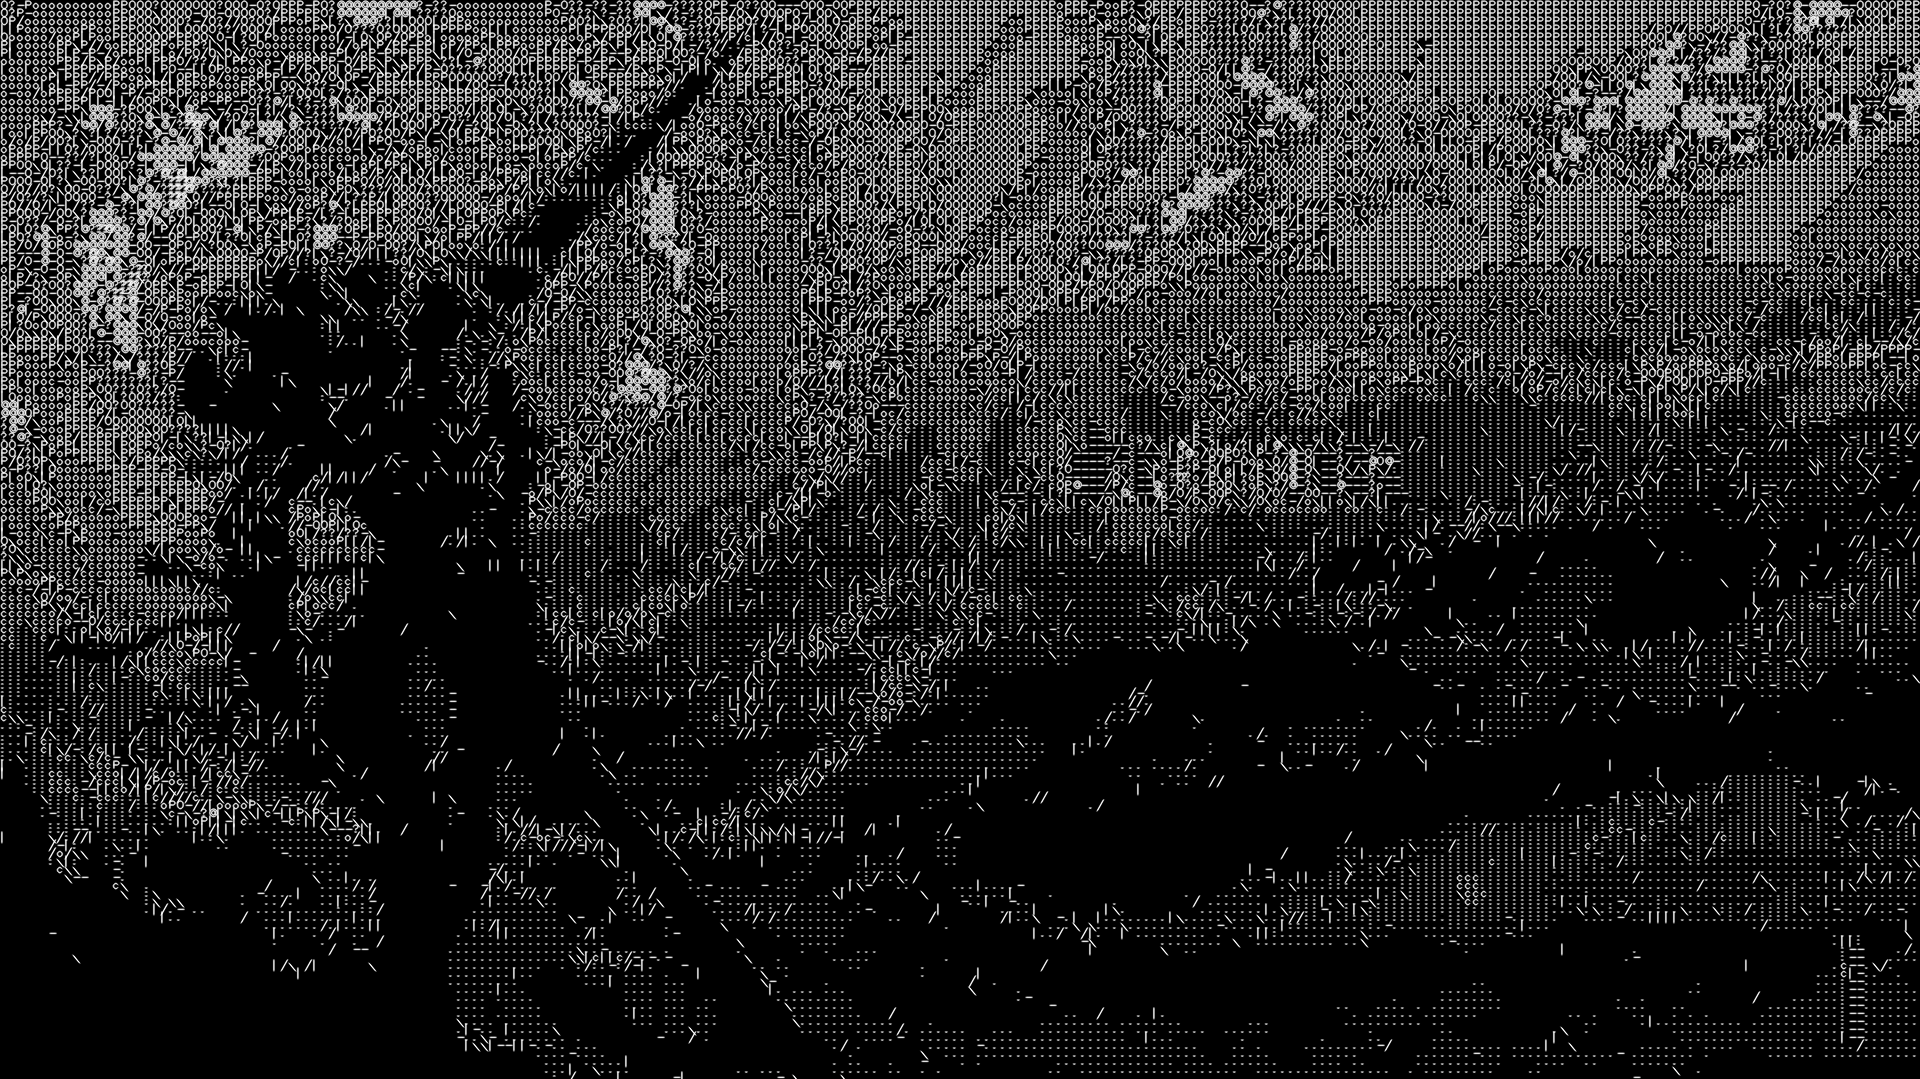
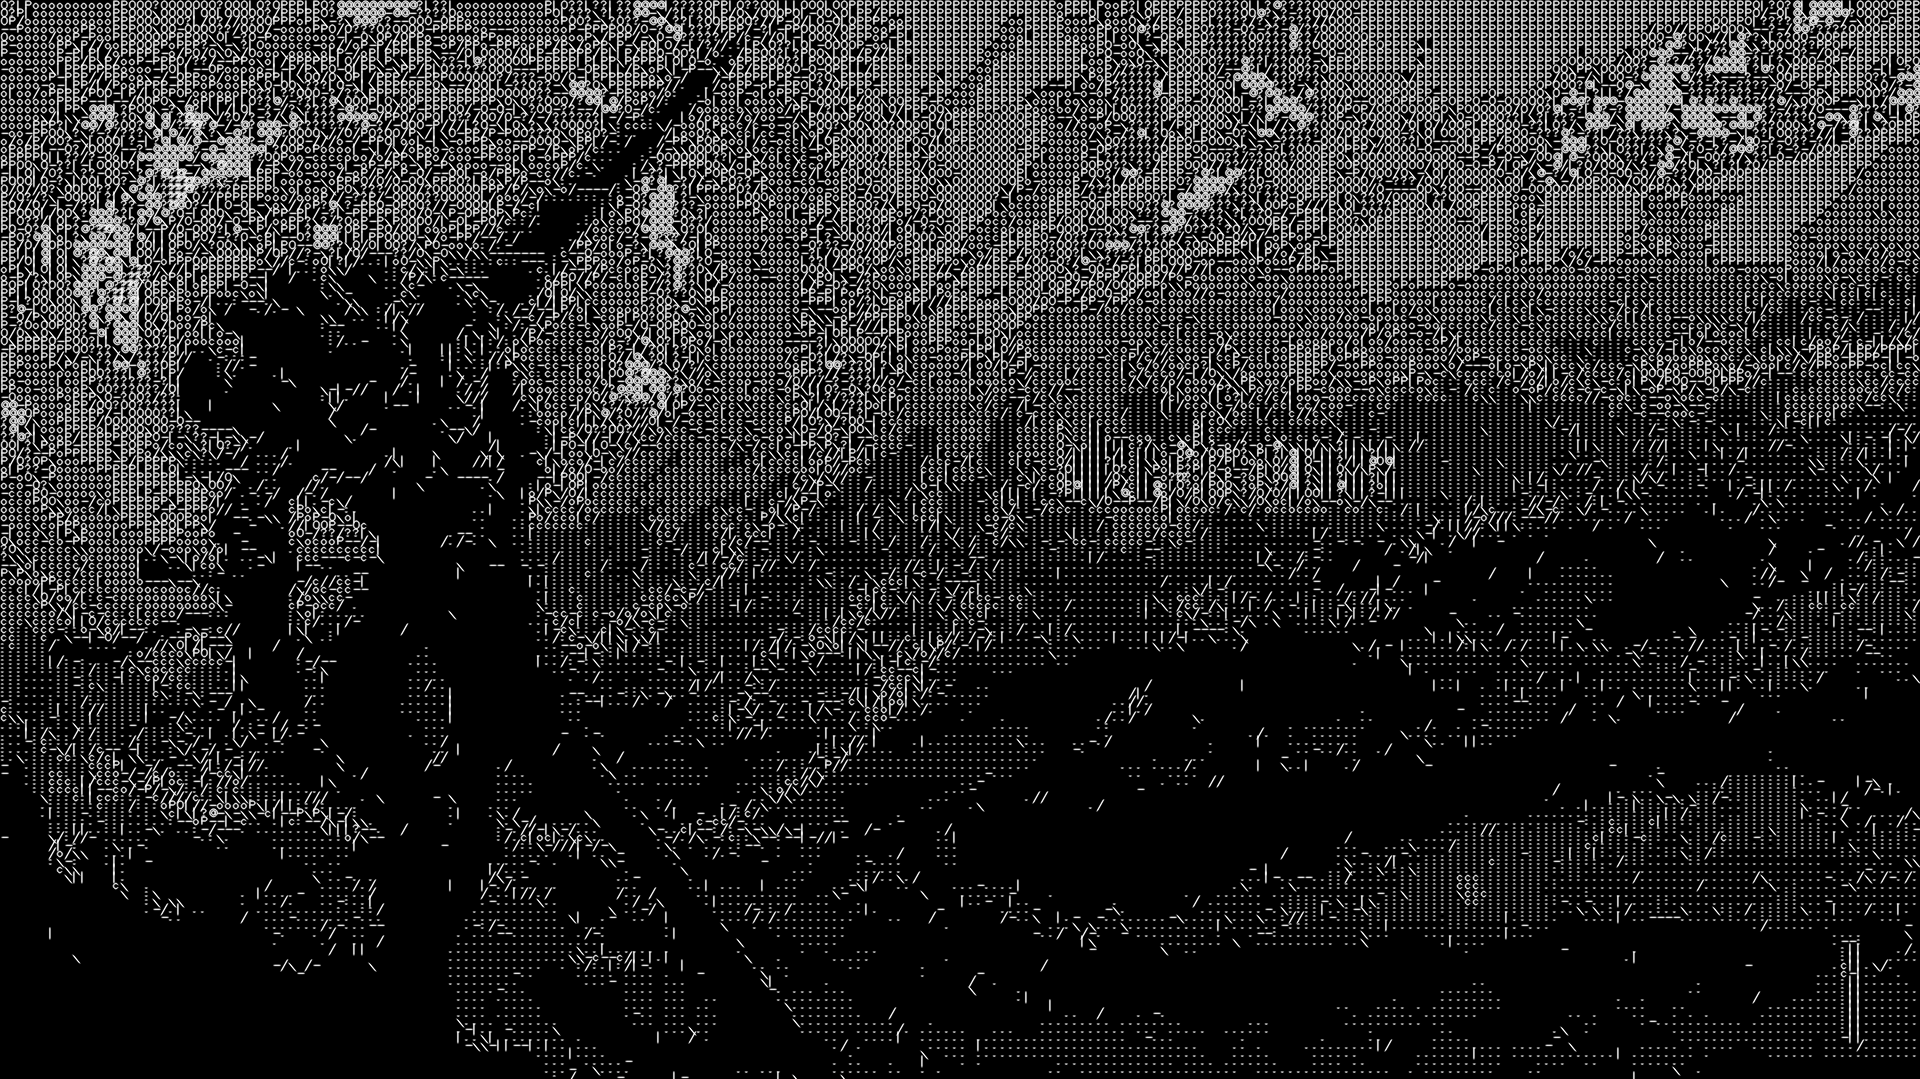
Fix: Fixed vertical/horizontal edge wrong values

diff --git a/src/Renderer.py b/src/Renderer.py
@@ -4,12 +4,6 @@ import pyperclip
 
 CHARS = np.array(list(" .:coPO?@■"))   # ascii characters in order of luminance (darkest to brightest)
 CHAR_PIXEL_SIZE = 8                     # ascii characters are 8x8 pixels
-EDGE_CHARS = {
-    0: '-',
-    45:  '/',
-    90: '|',
-    135: '\\'
-}
 
 class Renderer:
     def  __init__(self):
@@ -53,11 +47,11 @@ class Renderer:
                     if 22.5 < ang <= 67.5:
                         char = '/'
                     elif 67.5 < ang <= 112.5:
-                        char = '|'
+                        char = '-'
                     elif 112.5 < ang <= 157.5:
                         char = '\\'
                     else:
-                        char = '-'
+                        char = '|'
 
                 cv2.putText(
                     output_img,
@@ -99,11 +93,11 @@ class Renderer:
                     if 22.5 < ang <= 67.5:
                         char = '/'
                     elif 67.5 < ang <= 112.5:
-                        char = '|'
+                        char = '-'
                     elif 112.5 < ang <= 157.5:
                         char = '\\'
                     else:
-                        char = '-'
+                        char = '|'
                 line.append(char)
             ascii_lines.append(''.join(line))
         return "\n".join(ascii_lines)
